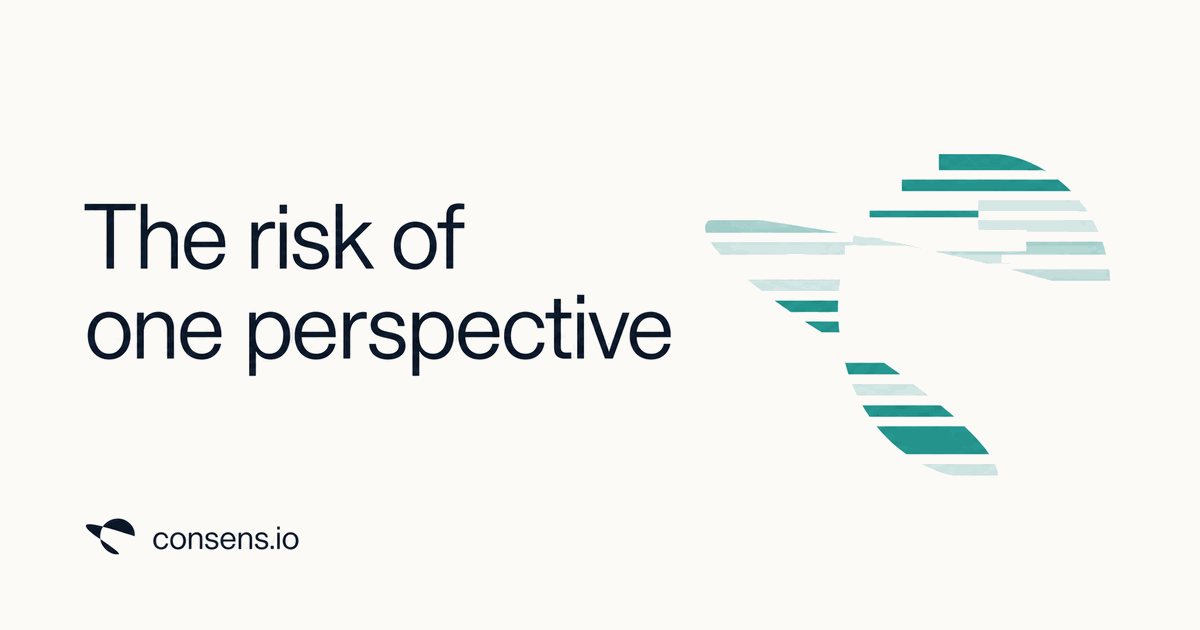
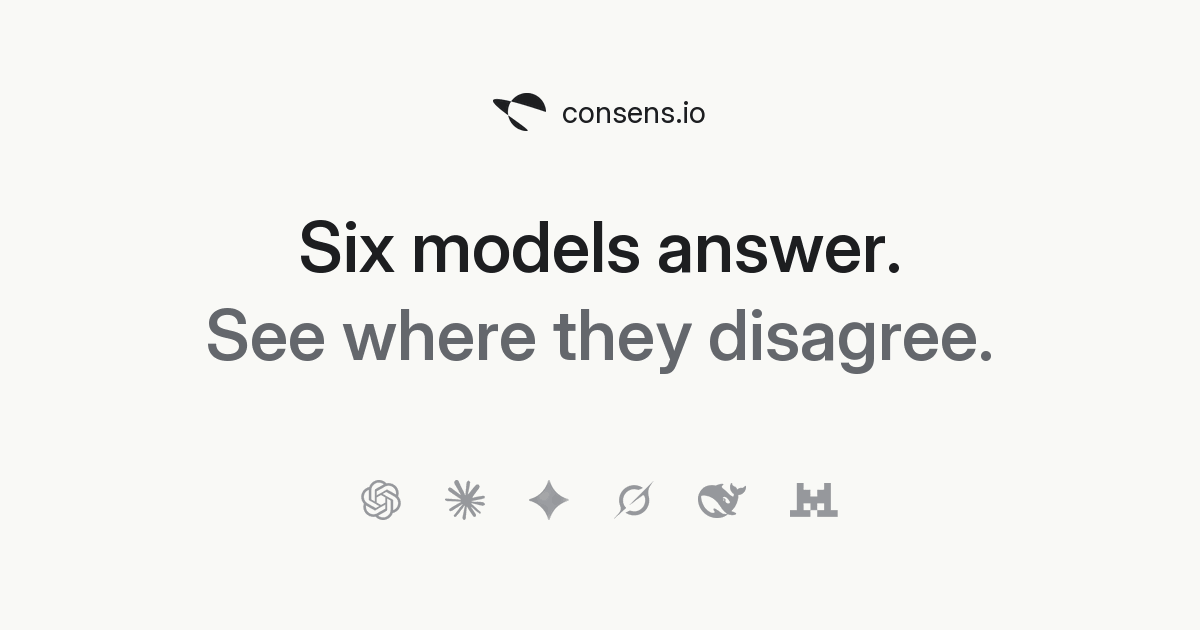
feat(public): Neue Markenkarte, alle Vorschaukarten WhatsApp-sicher
Max sah in WhatsApp die alte Startseiten-Karte: angeschnittenes „T“, „nicht
state of the art“. WhatsApp zeigt die Karte im Eingabefeld auf etwa 1,6:1
beschnitten, rund 90 px weniger je Seite.

- Die Markenkarte (static/og-home-v2.png) wird jetzt aus Code gezeichnet
  (og_image.render_brand_card, scripts/render_brand_card.py): zentriert die
  Wortmarke, der Hero-Satz der Landing in zwei Tönen („Six models answer.“ /
  „See where they disagree.“) und die sechs Anbieter-Marken als graue
  Silhouetten. 21 -> 12 KB.
- Frage- und Topic-Karten: 144 statt 88 px Rand, Fußzeile eine Stufe
  kleiner, damit Score und Fakten weiter neben die Wortmarke passen.
- Landing-Vorschautexte sagen dasselbe wie <title> und das Bild statt des
  alten Slogans „The Risk of One Perspective“.
- Tests verlangen für jede Karte und die gespeicherte PNG 130 px freien Rand.

diff --git a/templates/landing.html b/templates/landing.html
@@ -8,20 +8,20 @@
   <link rel="canonical" href="https://www.consens.io/">
   <meta property="og:type" content="website">
   <meta property="og:site_name" content="consens.io">
-  <meta property="og:title" content="The Risk of One Perspective | consens.io">
-  <meta property="og:description" content="See where leading AI answers contradict one another and when their positions change.">
+  <meta property="og:title" content="The AI Agent That Checks Six Models | consens.io">
+  <meta property="og:description" content="Ask once. consens.io checks the answer against six leading AI models and marks where they disagree.">
   <meta property="og:url" content="https://www.consens.io/">
   <meta property="og:image" content="https://www.consens.io{{ asset_url('/static/og-home-v2.png') }}">
   <meta property="og:image:secure_url" content="https://www.consens.io{{ asset_url('/static/og-home-v2.png') }}">
   <meta property="og:image:type" content="image/png">
   <meta property="og:image:width" content="1200">
   <meta property="og:image:height" content="630">
-  <meta property="og:image:alt" content="The risk of one perspective | consens.io">
+  <meta property="og:image:alt" content="Six models answer. See where they disagree. | consens.io">
   <meta name="twitter:card" content="summary_large_image">
-  <meta name="twitter:title" content="The Risk of One Perspective | consens.io">
-  <meta name="twitter:description" content="See where leading AI answers contradict one another and when their positions change.">
+  <meta name="twitter:title" content="The AI Agent That Checks Six Models | consens.io">
+  <meta name="twitter:description" content="Ask once. consens.io checks the answer against six leading AI models and marks where they disagree.">
   <meta name="twitter:image" content="https://www.consens.io{{ asset_url('/static/og-home-v2.png') }}">
-  <meta name="twitter:image:alt" content="The risk of one perspective | consens.io">
+  <meta name="twitter:image:alt" content="Six models answer. See where they disagree. | consens.io">
   <title>The AI Agent That Checks Six Models | consens.io</title>
   <link rel="stylesheet" href="{{ asset_url('/static/css/landing.css') }}">
   <link rel="stylesheet" href="{{ asset_url('/static/css/benchmark.css') }}">

diff --git a/templates/partials/og_card.html b/templates/partials/og_card.html
@@ -8,7 +8,7 @@
   {%- set og_card_text = og_card_alt if og_card_alt is defined and og_card_alt else "consens.io" %}
 {%- else %}
   {%- set og_card_src = "https://www.consens.io" ~ asset_url("/static/og-home-v2.png") %}
-  {%- set og_card_text = "The risk of one perspective | consens.io" %}
+  {%- set og_card_text = "Six models answer. See where they disagree. | consens.io" %}
 {%- endif %}
   <meta property="og:image" content="{{ og_card_src }}">
   <meta property="og:image:secure_url" content="{{ og_card_src }}">

diff --git a/app/services/og_image.py b/app/services/og_image.py
@@ -3,11 +3,14 @@
 Statt des Favicons zeigt der Link-Preview die Frage der Seite: darüber leise
 das Datum, unten neben der Wortmarke, was hinter der Antwort steht (Agreement,
 Modelle, Widersprüche). Rein aus gespeicherten Daten gerendert – keine LLM-Calls.
+Dazu die Markenkarte für alle übrigen Seiten (``render_brand_card``, als
+static/og-home-v2.png gespeichert von scripts/render_brand_card.py).
 
-Gestaltet als Geschwister der Markenkarte der Landing (static/og-home-v2.png):
-derselbe helle Grund, Wortmarke unten links, Inter in ruhigem Gewicht. Keine
-Linien, keine Versalien-Etiketten; Farbe trägt nur die Score-Ziffer (Ampel wie
-in der App: ab 65 grün, ab 40 amber, darunter rot).
+Eine Sprache für alle Karten: heller Grund, Inter in ruhigem Gewicht, die
+Bildmarke von consens.io. Keine Linien, keine Versalien-Etiketten; Farbe trägt
+nur die Score-Ziffer (Ampel wie in der App: ab 65 grün, ab 40 amber, darunter
+rot). Alles Wichtige bleibt im sicheren Bereich: WhatsApp zeigt die Karte im
+Eingabefeld beschnitten auf etwa 1,6:1, also rund 90 px weniger an jeder Seite.
 """
 
 from __future__ import annotations
@@ -30,28 +33,35 @@ except Exception:  # pragma: no cover - Pillow fehlt nur in Alt-Umgebungen
     _PIL_OK = False
 
 WIDTH, HEIGHT = 1200, 630
-MARGIN = 88
+# Seitenrand der Fragekarten: nach WhatsApps Beschnitt bleiben gut 50 px Luft.
+MARGIN = 144
 FONT_PATH = os.path.join("static", "fonts", "Inter-Variable.ttf")
-# Die Bildmarke als Alphamaske; gefärbt wird sie beim Zeichnen.
+# Bildmarke und Anbieter-Logos als Alphamasken; gefärbt wird beim Zeichnen.
 MARK_PATH = os.path.join("static", "favicon-dark.png")
+LOGO_DIR = os.path.join("static", "icons", "chat_icons")
 
 # Grund der Markenkarte, Tinte und Ampel aus static/css/variables.css (hell).
 BG = (250, 250, 247)
 INK = (29, 30, 32)
 MUTED = (100, 103, 109)
+LOGO_GREY = (150, 152, 157)
 AGREE = (40, 125, 104)
 PARTIAL = (148, 107, 31)
 DISPUTE = (177, 79, 91)
 
 # Fragengröße nach Länge: die größte Stufe, in der die ganze Frage passt.
-QUESTION_STEPS = ((88, 2), (76, 3), (66, 3), (58, 4), (50, 4), (44, 5))
+QUESTION_STEPS = ((84, 2), (72, 3), (62, 3), (54, 4), (48, 4), (42, 5))
 QUESTION_TOP, QUESTION_BOTTOM = 112, 468
 DATELINE_Y = 82  # Grundlinie der Datumszeile
 FOOTER_Y = 548  # optische Mitte der Fußzeile
 FACTS_SEPARATOR = "  ·  "
 
 # Die Markenkarte der Landing: Vorschaubild jeder Seite ohne eigene Karte.
+# Ihre Zeile ist der Hero-Satz der Landing (templates/landing.html, h1), die
+# sechs Marken sind die Familien eines vollen Laufs.
 BRAND_CARD = "/static/og-home-v2.png"
+BRAND_HEADLINE = ("Six models answer.", "See where they disagree.")
+BRAND_LOGOS = ("chatgpt.png", "claude.png", "gemini-icon.png", "grok.png", "deepseek.png", "mistral.png")
 
 _cache = TTLCache(maxsize=256, ttl=1800)
 
@@ -136,17 +146,31 @@ def _score_color(score: int):
     return AGREE if score >= 65 else PARTIAL if score >= 40 else DISPUTE
 
 
-def _draw_brand(image, draw) -> int:
-    """Bildmarke + Wortmarke unten links; gibt die rechte Kante zurück."""
-    mark = Image.open(MARK_PATH).convert("RGBA")
-    height = 38
-    width = round(mark.width * height / mark.height)
-    alpha = mark.getchannel("A").resize((width, height), Image.LANCZOS)
-    image.paste(Image.new("RGB", (width, height), INK), (MARGIN, FOOTER_Y - height // 2), alpha)
-    word_font = _font(30, 420)
-    word_x = MARGIN + width + 16
-    draw.text((word_x, FOOTER_Y), "consens.io", font=word_font, fill=INK, anchor="lm")
-    return word_x + int(draw.textlength("consens.io", font=word_font))
+def _paste_mask(image, path: str, height: int, xy: tuple[int, int], color) -> int:
+    """Zeichnet die Form einer PNG (ihren Alphakanal) in einer Farbe; gibt die Breite zurück."""
+    with Image.open(path) as source:
+        alpha = source.convert("RGBA").getchannel("A")
+    width = round(alpha.width * height / alpha.height)
+    image.paste(Image.new("RGB", (width, height), color), xy,
+                alpha.resize((width, height), Image.LANCZOS))
+    return width
+
+
+def _lockup(draw, mark_height: int, word_size: int):
+    """Font, Markenbreite, Abstand und Gesamtbreite von Bildmarke + Wortmarke."""
+    word_font = _font(word_size, 420)
+    with Image.open(MARK_PATH) as mark:
+        mark_width = round(mark.width * mark_height / mark.height)
+    gap = round(mark_height * 0.42)
+    return word_font, mark_width, gap, mark_width + gap + int(draw.textlength("consens.io", font=word_font))
+
+
+def _draw_lockup(image, draw, x: int, center_y: int, mark_height: int = 36, word_size: int = 28) -> int:
+    """Bildmarke + Wortmarke ab x, mittig auf center_y; gibt die rechte Kante zurück."""
+    word_font, mark_width, gap, total = _lockup(draw, mark_height, word_size)
+    _paste_mask(image, MARK_PATH, mark_height, (x, center_y - mark_height // 2), INK)
+    draw.text((x + mark_width + gap, center_y), "consens.io", font=word_font, fill=INK, anchor="lm")
+    return x + total
 
 
 def _draw_facts(draw, score, facts: list[str], left_limit: int) -> None:
@@ -155,8 +179,8 @@ def _draw_facts(draw, score, facts: list[str], left_limit: int) -> None:
     Passt sie nicht neben die Marke, fallen Fakten von hinten weg; der Score
     bleibt immer stehen.
     """
-    number_font = _font(30, 640)
-    text_font = _font(26, 460)
+    number_font = _font(28, 640)
+    text_font = _font(24, 460)
     parts = []  # (text, font, fill)
     if isinstance(score, (int, float)):
         value = max(0, min(100, int(score)))
@@ -189,7 +213,7 @@ def render_card(*, question: str, score=None, facts: list[str] = (), dateline: s
     draw = ImageDraw.Draw(image)
 
     if dateline:
-        draw.text((MARGIN, DATELINE_Y), dateline, font=_font(26, 460), fill=MUTED, anchor="ls")
+        draw.text((MARGIN, DATELINE_Y), dateline, font=_font(24, 460), fill=MUTED, anchor="ls")
 
     font, size, lines = _question_layout(draw, question)
     line_height = round(size * 1.18)
@@ -199,8 +223,41 @@ def render_card(*, question: str, score=None, facts: list[str] = (), dateline: s
         draw.text((MARGIN, y), line, font=font, fill=INK)
         y += line_height
 
-    brand_right = _draw_brand(image, draw)
-    _draw_facts(draw, score, list(facts), brand_right + 56)
+    brand_right = _draw_lockup(image, draw, MARGIN, FOOTER_Y)
+    _draw_facts(draw, score, list(facts), brand_right + 48)
+
+    buffer = io.BytesIO()
+    image.save(buffer, format="PNG", optimize=True)
+    return buffer.getvalue()
+
+
+def render_brand_card() -> bytes:
+    """Die Markenkarte: Wortmarke, Hero-Satz in zwei Tönen, sechs Marken.
+
+    Alles steht zentriert, damit jede Vorschau es zeigt, auch eine, die das
+    Bild seitlich beschneidet.
+    """
+    image = Image.new("RGB", (WIDTH, HEIGHT), BG)
+    draw = ImageDraw.Draw(image)
+
+    total = _lockup(draw, 38, 30)[3]
+    _draw_lockup(image, draw, (WIDTH - total) // 2, 112, mark_height=38, word_size=30)
+
+    headline = _font(70, 560)
+    for line, fill, baseline in zip(BRAND_HEADLINE, (INK, MUTED), (272, 360)):
+        draw.text((WIDTH // 2, baseline), line, font=headline, fill=fill, anchor="ms")
+
+    # Each mark fits a 40 x 48 box, so the wide ones (DeepSeek, Mistral) do
+    # not outweigh the round ones.
+    gap, sizes = 44, []
+    for name in BRAND_LOGOS:
+        with Image.open(os.path.join(LOGO_DIR, name)) as logo:
+            height = min(40, round(48 * logo.height / logo.width))
+            sizes.append((height, round(logo.width * height / logo.height)))
+    x = (WIDTH - sum(width for _, width in sizes) - gap * (len(sizes) - 1)) // 2
+    for name, (height, width) in zip(BRAND_LOGOS, sizes):
+        _paste_mask(image, os.path.join(LOGO_DIR, name), height, (x, 500 - height // 2), LOGO_GREY)
+        x += width + gap
 
     buffer = io.BytesIO()
     image.save(buffer, format="PNG", optimize=True)

diff --git a/tests/test_og_image.py b/tests/test_og_image.py
@@ -147,3 +147,41 @@ def test_a_word_wider_than_the_card_breaks_instead_of_running_off_it():
     # Nothing but ground in the right margin.
     margin = image.crop((1200 - og_image.MARGIN + 4, 0, 1200, og_image.QUESTION_BOTTOM))
     assert margin.getcolors(1)[0][1] == og_image.BG
+
+
+# WhatsApp shows the card in its composer cut to about 1.6:1, roughly 90 px
+# off each side (2026-10-18, the old brand card lost the "T" of its title).
+# Everything drawn keeps at least 40 px of air inside that crop.
+SAFE_LEFT, SAFE_RIGHT = 130, 1200 - 130
+
+
+def content_box(image):
+    ground = Image.new("RGB", image.size, og_image.BG)
+    return ImageChops.difference(image, ground).getbbox()
+
+
+@pytest.mark.parametrize("card", [
+    lambda: og_image.render_brand_card(),
+    lambda: og_image.render_share_card(**{**BASE, "checked_label": "Answered Sep 30, 2026"}),
+    lambda: og_image.render_card(question="When will GPT-6 be released?", facts=["6 AI models"],
+                                 dateline="Checked Oct 15, 2026"),
+    lambda: og_image.render_card(question="word " * 400, score=55,
+                                 facts=["6 AI models", "12 contradictions"]),
+])
+def test_every_card_stays_inside_whatsapps_crop(card):
+    left, _top, right, _bottom = content_box(decoded(card()))
+    assert left >= SAFE_LEFT and right <= SAFE_RIGHT
+
+
+def test_brand_card_says_the_landing_claim_over_six_marks(drawn):
+    image = decoded(og_image.render_brand_card())
+    assert drawn == ["consens.io", *og_image.BRAND_HEADLINE]
+    assert has_color(image, og_image.INK) and has_color(image, og_image.MUTED)
+    # Six marks in one grey row under the claim, centred.
+    row = image.crop((0, 470, 1200, 530))
+    left, _top, right, _bottom = content_box(row)
+    assert has_color(row, og_image.LOGO_GREY)
+    assert abs((left + right) / 2 - 600) <= 4
+    columns = [x for x in range(left, right) if content_box(row.crop((x, 0, x + 1, 60)))]
+    groups = 1 + sum(1 for a, b in zip(columns, columns[1:]) if b - a > 20)
+    assert groups == len(og_image.BRAND_LOGOS) == 6

diff --git a/tests/test_og_cards.py b/tests/test_og_cards.py
@@ -7,7 +7,7 @@ from pathlib import Path
 import pytest
 from fastapi import FastAPI
 from fastapi.testclient import TestClient
-from PIL import Image
+from PIL import Image, ImageChops
 
 from app.api.routers import pages as pages_router
 from app.core.assets import asset_url
@@ -107,3 +107,27 @@ def test_topic_cards_end_with_their_page(public_topics):  # noqa: F811
     topics.create_topic(topic_payload(slug="draft-topic"), actor_uid="admin", db=h.topic_db)
     for slug in ("gone-topic", "draft-topic", "no-such-topic"):
         assert h.client.get(f"/topics/{slug}/og.png").status_code == 404
+
+
+def test_the_stored_brand_card_is_the_whatsapp_safe_one():
+    # static/og-home-v2.png comes from scripts/render_brand_card.py; an image
+    # that runs to the edges loses its text in WhatsApp's composer preview.
+    with Image.open(ROOT / "static" / "og-home-v2.png") as stored:
+        image = stored.convert("RGB")
+    assert image.size == (1200, 630)
+    # The stored file is a 256-colour palette: the ground may move by a step.
+    corner = image.getpixel((4, 4))
+    assert all(abs(a - b) <= 4 for a, b in zip(corner, og_image.BG))
+    ground = Image.new("RGB", image.size, corner)
+    drawn = ImageChops.difference(image, ground).convert("L").point(lambda value: 255 if value > 8 else 0)
+    left, _top, right, _bottom = drawn.getbbox()
+    assert left >= 130 and right <= 1070
+
+
+def test_the_landing_preview_text_matches_its_card():
+    head = (ROOT / "templates" / "landing.html").read_text(encoding="utf-8").split("</head>", 1)[0]
+    alt = "Six models answer. See where they disagree. | consens.io"
+    assert meta(head, "og:image:alt") == meta(head, "twitter:image:alt") == alt
+    assert meta(head, "og:title") == "The AI Agent That Checks Six Models | consens.io"
+    partial = pages_router.templates.env.get_template("partials/og_card.html")
+    assert meta(partial.render(og_card_image=""), "og:image:alt") == alt

diff --git a/scripts/shrink_images.py b/scripts/shrink_images.py
@@ -9,12 +9,13 @@ shows at most 144 device pixels wide. This script scales each one to
 premultiplied, so edges keep no dark fringe) and keeps the result only when
 the file gets smaller. No palette reduction: logos keep their gradients.
 
-The landing share image (``static/og-home-v2.png``, 1200x630) is flat colour.
-As RGB it weighed 451 KB, above the roughly 300 KB at which WhatsApp is
-widely reported to drop the picture from a link preview. It uses about 120
-colours, so a 256-colour palette without dithering keeps every channel of
-every pixel within 13/255 of the source at 21 KB. If a palette would move any
-channel by more than ``MAX_PALETTE_ERROR``, the file stays as it is.
+The landing share image (``static/og-home-v2.png``, 1200x630, written by
+``scripts/render_brand_card.py``) is flat colour. WhatsApp is widely reported
+to drop the picture from a link preview above roughly 300 KB; the first
+version weighed 451 KB as RGB. A 256-colour palette without dithering keeps
+every channel of every pixel within a few steps of the source (the current
+card: 42 -> 12 KB). If a palette would move any channel by more than
+``MAX_PALETTE_ERROR``, the file stays as it is.
 
 Pillow is an app dependency:
 

diff --git a/scripts/render_brand_card.py b/scripts/render_brand_card.py
@@ -1,0 +1,36 @@
+"""Write the brand share card, static/og-home-v2.png, from its renderer.
+
+The card every page without a card of its own shows in link previews (the
+landing page, /app, /about, ...) is drawn by ``og_image.render_brand_card``,
+in the same language as the generated question cards. After a change there:
+
+    venv/Scripts/python.exe scripts/render_brand_card.py
+    venv/Scripts/python.exe scripts/shrink_images.py
+
+The file keeps its name; ``asset_url`` gives it a new content hash, so link
+previews fetch the new picture once a service reads the page again.
+"""
+from __future__ import annotations
+
+import sys
+from pathlib import Path
+
+ROOT = Path(__file__).resolve().parents[1]
+sys.path.insert(0, str(ROOT))
+
+from app.services import og_image  # noqa: E402
+
+TARGET = ROOT / "static" / "og-home-v2.png"
+
+
+def main() -> int:
+    if not og_image.is_available():
+        print("Pillow or the Inter font is missing", file=sys.stderr)
+        return 1
+    TARGET.write_bytes(og_image.render_brand_card())
+    print(f"{TARGET.relative_to(ROOT)}: {TARGET.stat().st_size // 1024} KB")
+    return 0
+
+
+if __name__ == "__main__":
+    raise SystemExit(main())

diff --git a/docs/audit-2026-10-05.md b/docs/audit-2026-10-05.md
@@ -23,7 +23,7 @@ Aufwand: S = Stunden, M = 1–2 Tage, L = mehrere Tage.
 - erledigt 2026-10-18 (täglicher Lauf): F9 teilweise. Share-, Watch- und Topic-Seiten laden KaTeX (24 KB blockierendes CSS, 276 KB Skript) nur noch, wenn der Server im Seiteninhalt eine Formel findet (`app/core/math_assets.py`, `partials/katex.html`); hat er eine übersehen, lädt `math-render.js` die Dateien aus dem Meta-Tag nach (Browser-Test `tests/e2e/test_katex_on_demand.py`). `/app` bewusst unverändert: Dort kommen Antworten laufend dazu, und ein verzögertes Setzen nach den Satzmarken würde Formeln, die eine Marke teilt, als Quelltext stehen lassen; wiederkehrende Nutzer haben die Dateien ohnehin im Cache.
 - erledigt 2026-10-18 (zweiter täglicher Lauf): F17. Inter liegt je Schnitt in drei Teilen mit disjunkter `unicode-range` vor (`scripts/subset_inter_font.py`, alle OpenType-Features und beide Achsen bleiben). Jede Seite lädt nur den Latein-Teil: 130 statt 344 KB normal, 145 statt 379 KB kursiv. `-latin-ext` (109/118 KB) und `-rest` (220/241 KB) holt der Browser nur bei passenden Zeichen. Im Browser gemessen: Englischer Text mit → ≈ ≥ ✓ CO₂ lädt nur die Latein-Dateien, Latein, Griechisch und Kyrillisch werden genauso breit gesetzt wie mit der Originaldatei, gemischte Wörter wie „Nguyễn“ bei 32 px höchstens 1 px breiter, weil über die Dateigrenze keine Unterschneidung greift. Den Preload in `/app` gab es schon, er zeigt jetzt auf den Latein-Teil. Ein Test verlangt, dass jedes Zeichen der Oberfläche im Latein-Teil liegt.
 - erledigt 2026-10-18 (dritter täglicher Lauf): P15. Die Provider-Logos in `static/icons/chat_icons/` sind auf höchstens 144 px verkleinert (dreifach der größten Anzeige, 48 px Mistral in der Landing-Logoleiste; verlustfrei, ohne Farbpalette): alle PNG-Logos 236 → 63 KB, Gemini allein 112 → 15 KB. Das Landing-OG-Bild ist eine 256-Farben-PNG mit höchstens 13/255 Abweichung pro Kanal: 451 → 21 KB, also unter den rund 300 KB, ab denen WhatsApp laut vielen Berichten das Vorschaubild weglässt. Alle Logo-URLs tragen jetzt den `asset_url`-Hash (Templates und `ProviderConfig.icon_url` für Picker, Model Pulse, Leaderboard und Share-Seiten) und bleiben ein Jahr im Browser statt auf jeder Seite neu bestätigt zu werden. Nebenbefund, live auf `/about` gesehen: `/about` und `/ai-model-comparison` zeigten Claude, Gemini, DeepSeek und Grok als winzige Schriftzüge (2560 × 550 px in einer 34-px-Box, etwa 34 × 7 px); beide nutzen jetzt die quadratischen Marken wie die Landing, die acht ungenutzten Wortmarken (341 KB) sind gelöscht. Werkzeug `scripts/shrink_images.py` (`--check`), Budgets in `tests/test_static_images.py`.
-- erledigt 2026-10-18 (vierter täglicher Lauf): P17 teilweise, P9 für `/app`. Jede öffentliche Seite hat jetzt eine große Vorschaukarte statt des Favicons (`partials/og_card.html`): `/about`, `/benchmark`, `/questions`, `/topics`, `/model-pulse`, `/ai-model-comparison`, `/consensus-engine` und `/app` die Markenkarte der Landing, Topic-Seiten eine eigene Karte mit ihrem Titel (`/topics/{slug}/og.png`). `/app` hatte gar keine OG-Tags, sein Titel hieß noch „Compare AI Answers“ und heißt jetzt `consens.io`. Auf Max' Hinweis („sieht unprofessionell aus“) ist die generierte Share-Karte neu gestaltet: hell wie die Markenkarte, Frage in ruhigem Gewicht, Logo unten links, Farbe nur auf der Score-Ziffer; vorher dunkel, fett, mit Trennlinie und Versalien-Etikett. Offen aus P17: `/benchmark/` mit 307 und `vertexaisearch`-Links in Topic-Zitaten.
+- erledigt 2026-10-18 (vierter täglicher Lauf): P17 teilweise, P9 für `/app`. Jede öffentliche Seite hat jetzt eine große Vorschaukarte statt des Favicons (`partials/og_card.html`): `/about`, `/benchmark`, `/questions`, `/topics`, `/model-pulse`, `/ai-model-comparison`, `/consensus-engine` und `/app` die Markenkarte der Landing, Topic-Seiten eine eigene Karte mit ihrem Titel (`/topics/{slug}/og.png`). `/app` hatte gar keine OG-Tags, sein Titel hieß noch „Compare AI Answers“ und heißt jetzt `consens.io`. Auf Max' Hinweis („sieht unprofessionell aus“) ist die generierte Share-Karte neu gestaltet: hell wie die Markenkarte, Frage in ruhigem Gewicht, Logo unten links, Farbe nur auf der Score-Ziffer; vorher dunkel, fett, mit Trennlinie und Versalien-Etikett. Nachtrag am selben Abend, wieder auf Max' Hinweis (WhatsApp schnitt das „T“ der alten Markenkarte ab, „nicht state of the art“): Die Markenkarte ist neu und wird aus Code gezeichnet (`og_image.render_brand_card`, `scripts/render_brand_card.py`), zentriert mit dem Hero-Satz der Landing und den sechs Anbieter-Marken; alle Karten halten 130 px Rand frei, weil WhatsApp im Eingabefeld rund 90 px je Seite abschneidet. Die Landing-Vorschautexte sagen jetzt dasselbe wie `<title>`. Offen aus P17: `/benchmark/` mit 307 und `vertexaisearch`-Links in Topic-Zitaten.
 - Offener Prod-Schritt (Max):
   - Optional das alte `seo.description` der GPT-6-Topic leeren.
 

diff --git a/docs/codebase-map.md b/docs/codebase-map.md
@@ -357,7 +357,9 @@ Alle öffentlichen HTML-Seiten teilen Navigation und Footer über
 Link-Vorschaubild (`og:image`, `twitter:card` `summary_large_image`, 1200 × 630)
 kommt seit 2026-10-18 überall aus `templates/partials/og_card.html`, auch für
 `/app`: Ohne eigene Karte zeigt eine Seite die Markenkarte der Landing
-(`static/og-home-v2.png` mit `asset_url`-Hash), nie das Favicon. Eigene Karten
+(`static/og-home-v2.png` mit `asset_url`-Hash; gezeichnet von
+`og_image.render_brand_card`, gespeichert mit `scripts/render_brand_card.py`
+und danach `scripts/shrink_images.py`), nie das Favicon. Eigene Karten
 setzen `og_card_image`/`og_card_alt` vor dem Include (Share-, Watch- und
 Topic-Seiten, gerendert von `app/services/og_image.py`). Nur `landing.html`
 schreibt dieselben Tags noch selbst aus; `tests/test_og_cards.py` verbietet
@@ -5977,11 +5979,19 @@ keinen Abgleich.
   noch vorhandenes Zähler-Dokument in Prod ist verwaist und wird nie gelesen.
 
 ### Sharing
-- Vorschaukarten (`app/services/og_image.py`, seit 2026-10-18 neu gestaltet als
-  Geschwister der Landing-Markenkarte): heller Grund, darüber leise das Datum
-  („Answered Oct 12, 2026“ bzw. bei Topics „Checked …“), die Frage in Inter
-  520 so groß, wie sie ganz passt (88 → 44 px, erst danach „…“), unten links
-  Bildmarke + Wortmarke, rechts Agreement und Fakten. Farbe trägt nur die
+- Vorschaukarten (`app/services/og_image.py`, seit 2026-10-18 in einer
+  Sprache): heller Grund, darüber leise das Datum („Answered Oct 12, 2026“
+  bzw. bei Topics „Checked …“), die Frage in Inter 520 so groß, wie sie ganz
+  passt (84 → 42 px, erst danach „…“), unten links Bildmarke + Wortmarke,
+  rechts Agreement und Fakten. Die Markenkarte (`render_brand_card`) steht
+  zentriert: Wortmarke, der Hero-Satz der Landing in zwei Tönen („Six models
+  answer.“ / „See where they disagree.“), darunter die sechs Anbieter-Marken
+  als graue Silhouetten. **Sicherer Bereich:** WhatsApp zeigt die Karte im
+  Eingabefeld auf etwa 1,6:1 beschnitten (rund 90 px weniger je Seite; die
+  alte Markenkarte verlor dort das „T“ ihres Titels). Deshalb 144 px Rand,
+  und `tests/test_og_image.py`/`tests/test_og_cards.py` verlangen für jede
+  Karte und die gespeicherte PNG mindestens 130 px leeren Rand links und
+  rechts. Farbe trägt nur die
   Score-Ziffer (Ampel wie in der App: ab 65 grün, ab 40 amber, darunter rot);
   passt die Faktenzeile nicht neben die Wortmarke, fallen Fakten von hinten
   weg, der Score bleibt. Keine Linien, keine Versalien, keine Sparkline mehr.
